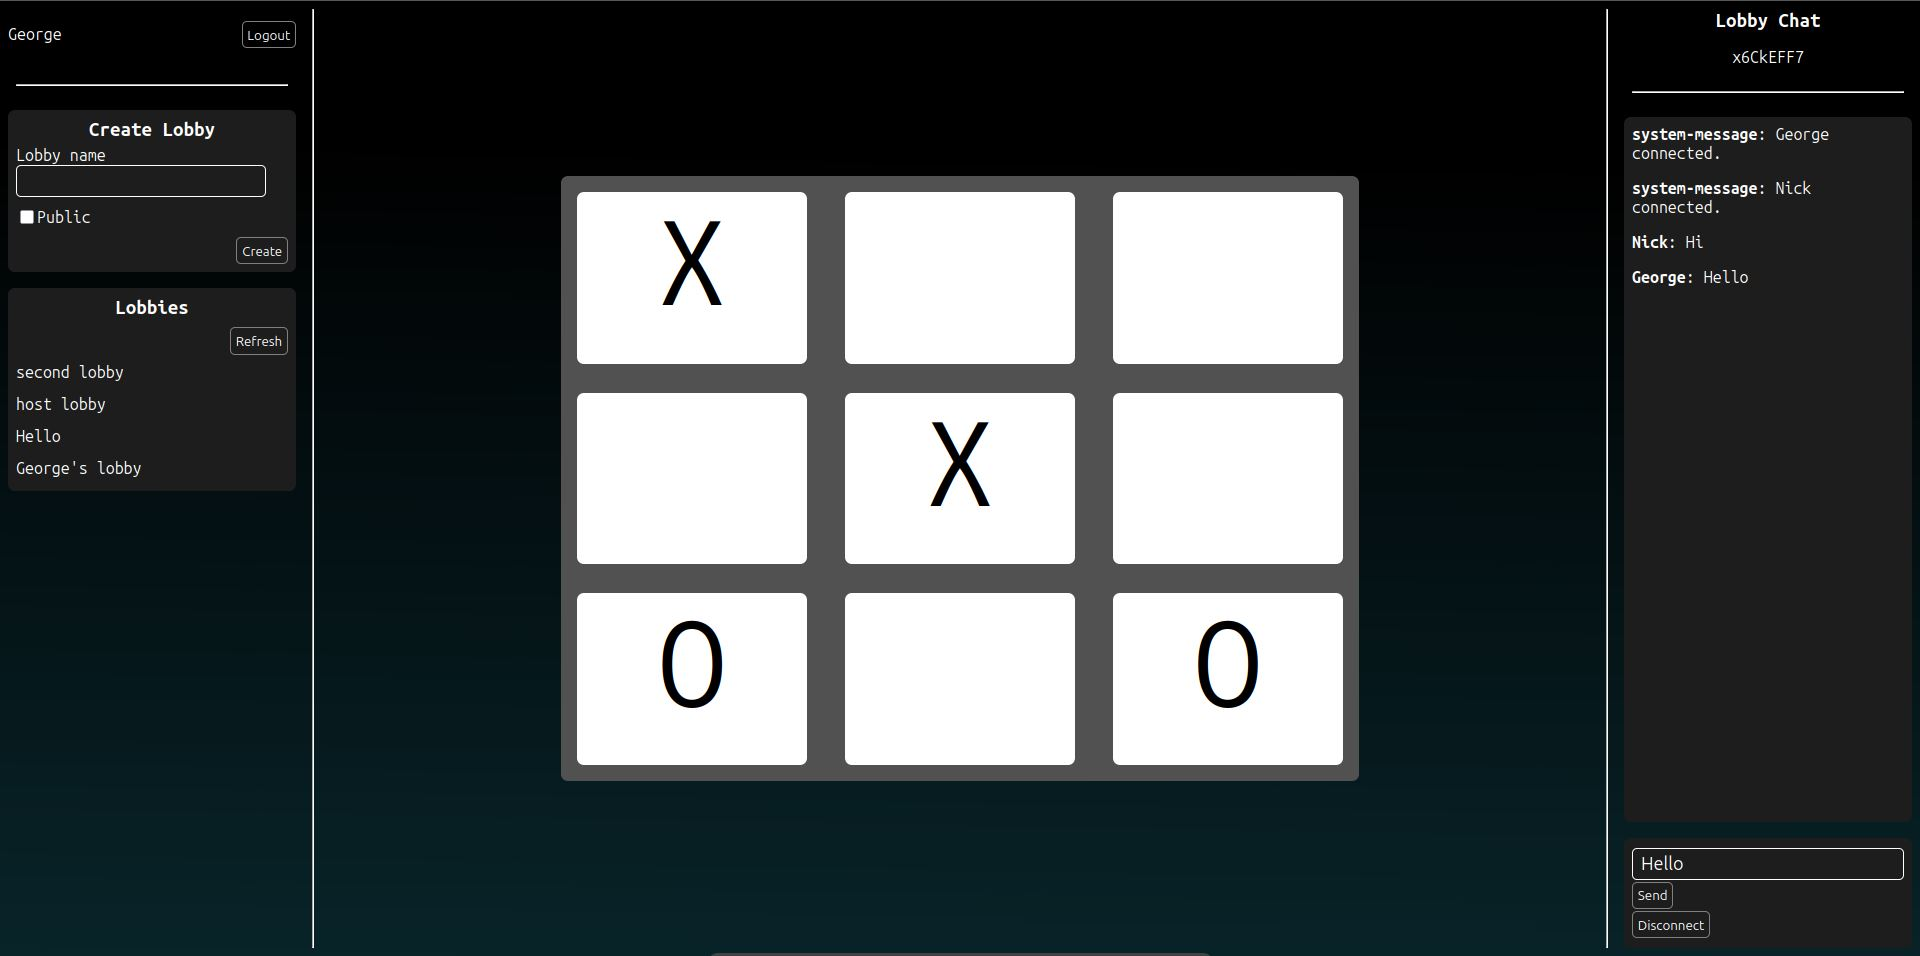
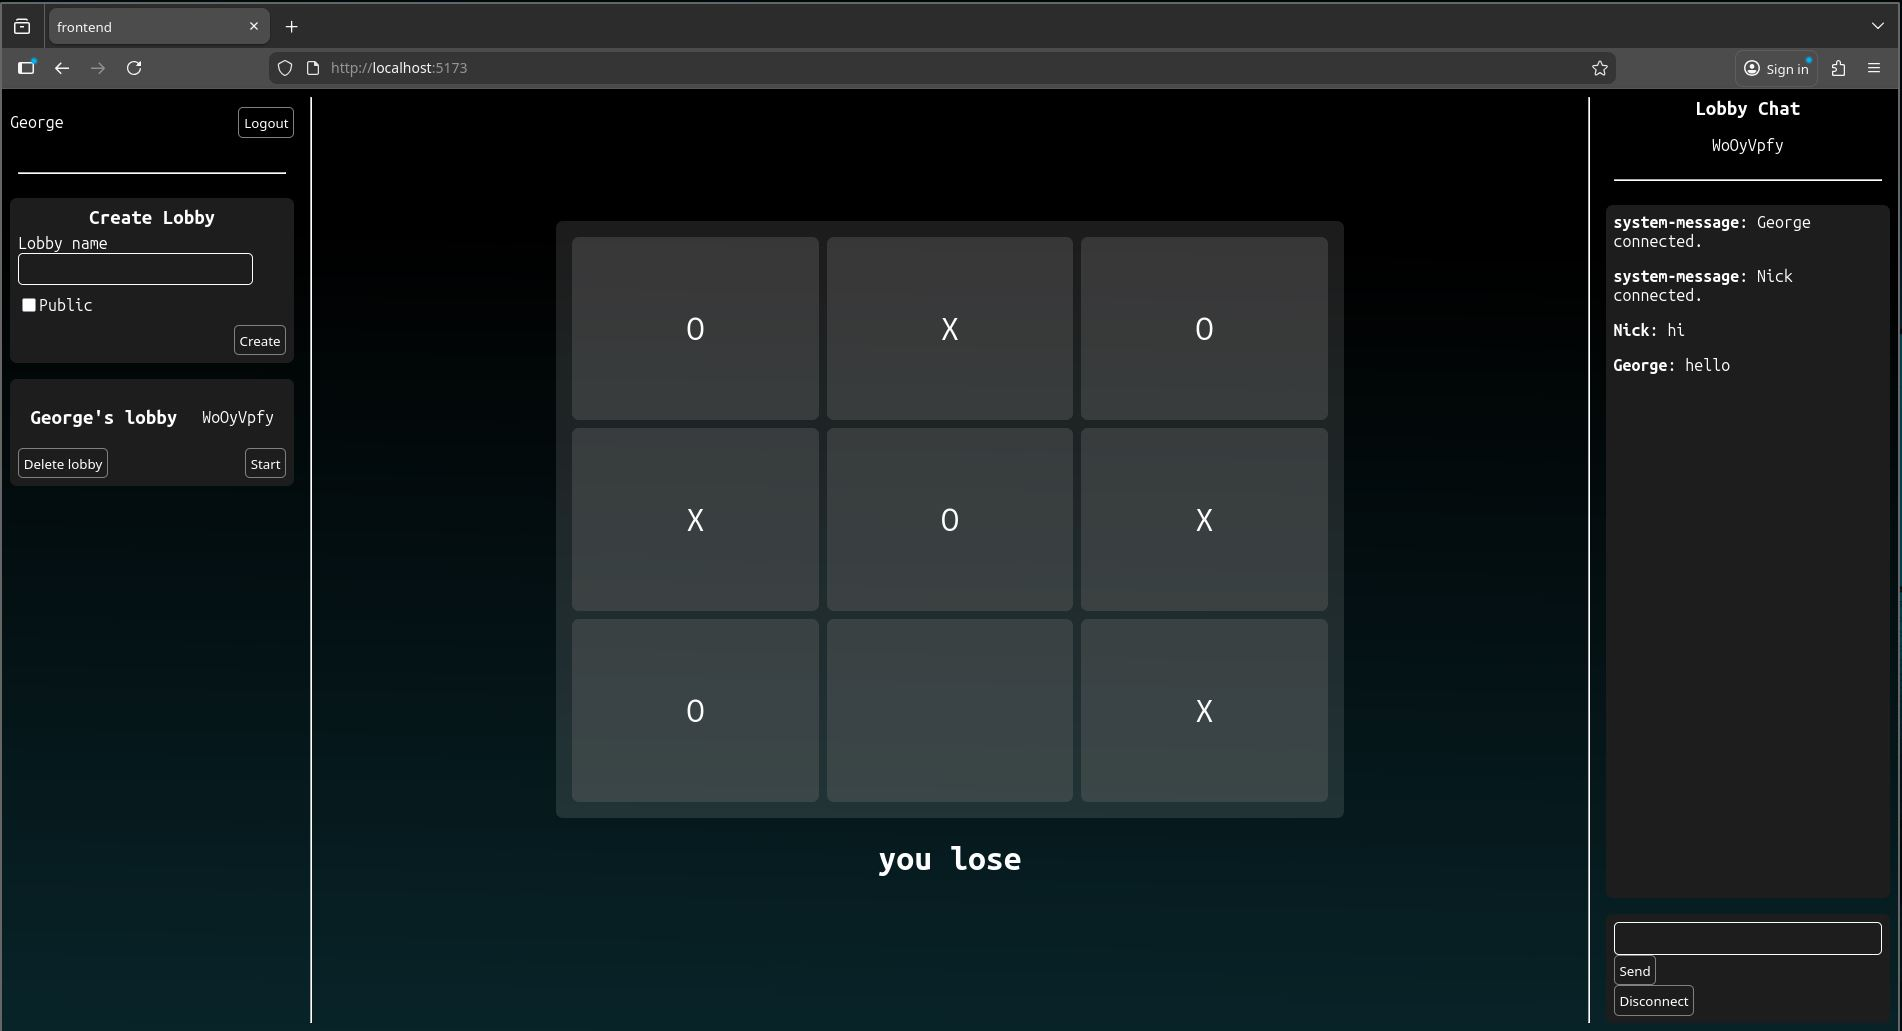
Gameserver, Frontend added checkwinner logic

diff --git a/GameServer/gamelogic/tictactoe.js b/GameServer/gamelogic/tictactoe.js
@@ -6,6 +6,8 @@ const gamestate = (userIds) => {
         players: userIds,
         nextPlayer: userIds[0],
         index: 0,
+        end: false,
+        winner: null,
         board: [
             [null,null,null],
             [null,null,null],
@@ -31,9 +33,21 @@ const placeMarker = (gamestate, coord, user_id) => {
         return false;
     }
 
-    gamestate.board[v][h] = JSON.stringify(user_id);
+    gamestate.board[v][h] = user_id;
 
     return true;
+}
+
+const checkWinner = (board, player) => {
+
+    for(let i=0; i<=2; i++) {
+        if(board[0][i] === player && board[1][i] === player && board[2][i] === player) { return true; }
+        if(board[i][0] === player && board[i][1] === player && board[i][2] === player) { return true; }
+    }
+    if(board[0][0] === player && board[1][1] === player && board[2][2] === player) { return true; }
+    if(board[0][2] === player && board[1][1] === player && board[2][0] === player) { return true; }
+
+    return false;
 }
 
 exports.start = (lobby) => {
@@ -55,36 +69,56 @@ exports.handleGameMove = async (lobby_id, user_id, move) => {
 
     if (!lobby?.gamestate) {
         console.log("no lobby.gamestate");
-        return false;
+        return {type: "error", message: "game not started", broadcast: false};
+    }
+
+    if(lobby?.gamestate.winner !== null) {
+        return {type: "error", message: "game ended", broadcast: false};
     }
     
     if(user_id != lobby.gamestate.nextPlayer) {
-        return false;
+        return {type: "error", message: "not your turn", broadcast: false};
     }
 
     if(!move || !move?.type) {
         console.log("no move or move.type");
-        return false;
+        return {type: "error", message: "no move or move.type", broadcast: false};
     }
+
+
 
     switch (move.type) {
         case "place":
             const success = placeMarker(lobby.gamestate, move.coord, user_id);
-            if (!success) {console.log("error at place"); return false;}
+            if (!success) {console.log("error at place"); return {type: "error", message: "slot used", broadcast: false};}
             break;
     
         default:
             break;
     }
 
-    // Rotate next player id
-    lobby.gamestate.index = (lobby.gamestate.index + 1) % 2;
-    lobby.gamestate.nextPlayer = lobby.gamestate.players[lobby.gamestate.index];
+    let result;
+
+    // check winner
+    if(checkWinner(lobby.gamestate.board, user_id)) {
+        console.log(user_id, " win");
+        // lobby.gamestate.end = true;
+        lobby.gamestate.winner = user_id;
+        console.log(lobby.gamestate.end);
+        result = {type: "game-state", winner: user_id, gamestate: lobby.gamestate, broadcast: true};
+    }
+    else {
+        // Rotate next player id
+        lobby.gamestate.index = (lobby.gamestate.index + 1) % 2;
+        lobby.gamestate.nextPlayer = lobby.gamestate.players[lobby.gamestate.index];
+        result = {type: "game-state", gamestate: lobby.gamestate, broadcast: true};
+    }
+
 
     //update redis gamestate
     await redisClient.redisSetGameState(lobby_id, lobby.gamestate);
     await redisClient.redisPublishGamestate("lobby:"+lobby_id, lobby.gamestate);
 
-    return lobby.gamestate;
+    return result;
     
 }

diff --git a/frontend/src/components/Game/Game.jsx b/frontend/src/components/Game/Game.jsx
@@ -6,12 +6,19 @@ const Game = ({ ws }) => {
 
     const [gamestate, setGameState] = useState(null);
     const [settings, setSettings] = useContext(SettingsContext);
+    // const [winner, setWinner] = useState(null);
 
     const handleGameState = (message) => {
 
         const parsed = JSON.parse(message.data);
         if(parsed.type === "game-state") {
             setGameState(parsed.gamestate);
+            // setWinner(null);
+        }
+        else if(parsed.type === "winner"){
+            setGameState(parsed.gamestate);
+            // setWinner(parsed.winner);
+            // alert(parsed.winner === settings.user_id ? "You win!" : "You lose");
         }
     }
 
@@ -22,13 +29,13 @@ const Game = ({ ws }) => {
     }
 
     const place = (clicked) => {
-        if(gamestate.nextPlayer === settings.user_id) {
-            const coord = clicked.split('-');
-            ws.send(JSON.stringify({type: "game-move", move: {type: "place", coord: coord}}));
-        }
-        else {
-            alert("It's not your turn");
-        }
+        // if(gamestate.nextPlayer === settings.user_id) {
+        // }
+        const coord = clicked.split('-');
+        ws.send(JSON.stringify({type: "game-move", move: {type: "place", coord: coord}}));
+        // else {
+        //     alert("It's not your turn");
+        // }
     }
 
     useEffect(()=> {
@@ -52,7 +59,7 @@ const Game = ({ ws }) => {
                     </div>
                 })}
             </div>
-            <button onClick={place}>place</button>
+            {gamestate.winner && <h1>{gamestate.winner === settings.user_id ? "You win!" : "you lose" }</h1>}
         </>
     )
 }

diff --git a/GameServer/wsHandlers/wsHandlers.js b/GameServer/wsHandlers/wsHandlers.js
@@ -231,11 +231,11 @@ exports.wsMessage = async (ws, message) => {
             break;
         case "game-move":
             const result = await gameLogic.handleGameMove(ws.lobby_id, ws.userData.user_id, parsed.move);
-            if (!result) {
-                ws.send(JSON.stringify({type: "error", message: "game not started"}));
+            if (!result.broadcast) {
+                ws.send(JSON.stringify(result));
                 return;
             }
-            broadcastMessage(ws.lobby_id, {type: "game-state", gamestate: result});
+            broadcastMessage(ws.lobby_id, result);
             break;
         default:
             break;

diff --git a/frontend/src/style.css b/frontend/src/style.css
@@ -92,7 +92,9 @@ button:hover {
 
 .mainpanel {
     display: flex;
+    flex-direction: column;
     justify-content: center;
+    align-items: center;
     /* background-color: black; */
     flex: 1;
     /* width: 70%; */
